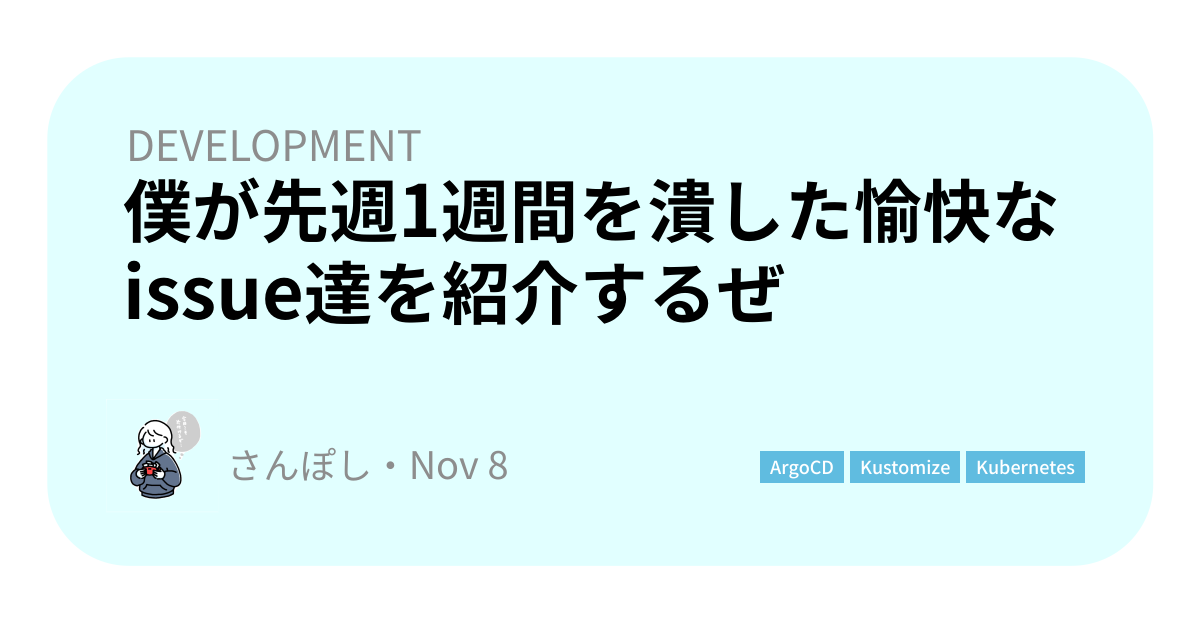
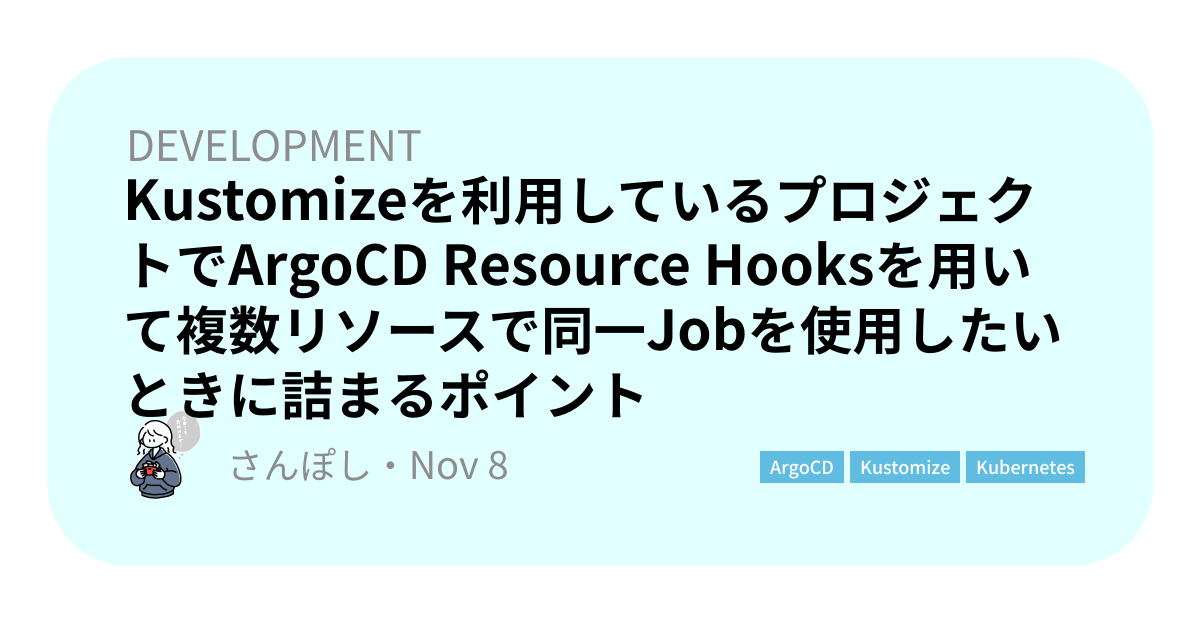
add: argo bug

Changed region(s): [[0.0925, 0.2727, 0.8942, 0.6667]]

diff --git a/content/posts/argocd-kustomize-bug.md b/content/posts/argocd-kustomize-bug.md
@@ -1,5 +1,5 @@
 ---
-title: "僕が先週1週間を潰した愉快なissue達を紹介するぜ"
+title: "Kustomizeを利用しているプロジェクトでArgoCD Resource Hooksを用いて複数リソースで同一Jobを使用したいときに詰まるポイント"
 date: 2020-11-08T11:29:13+09:00
 author:
  - "さんぽし"
